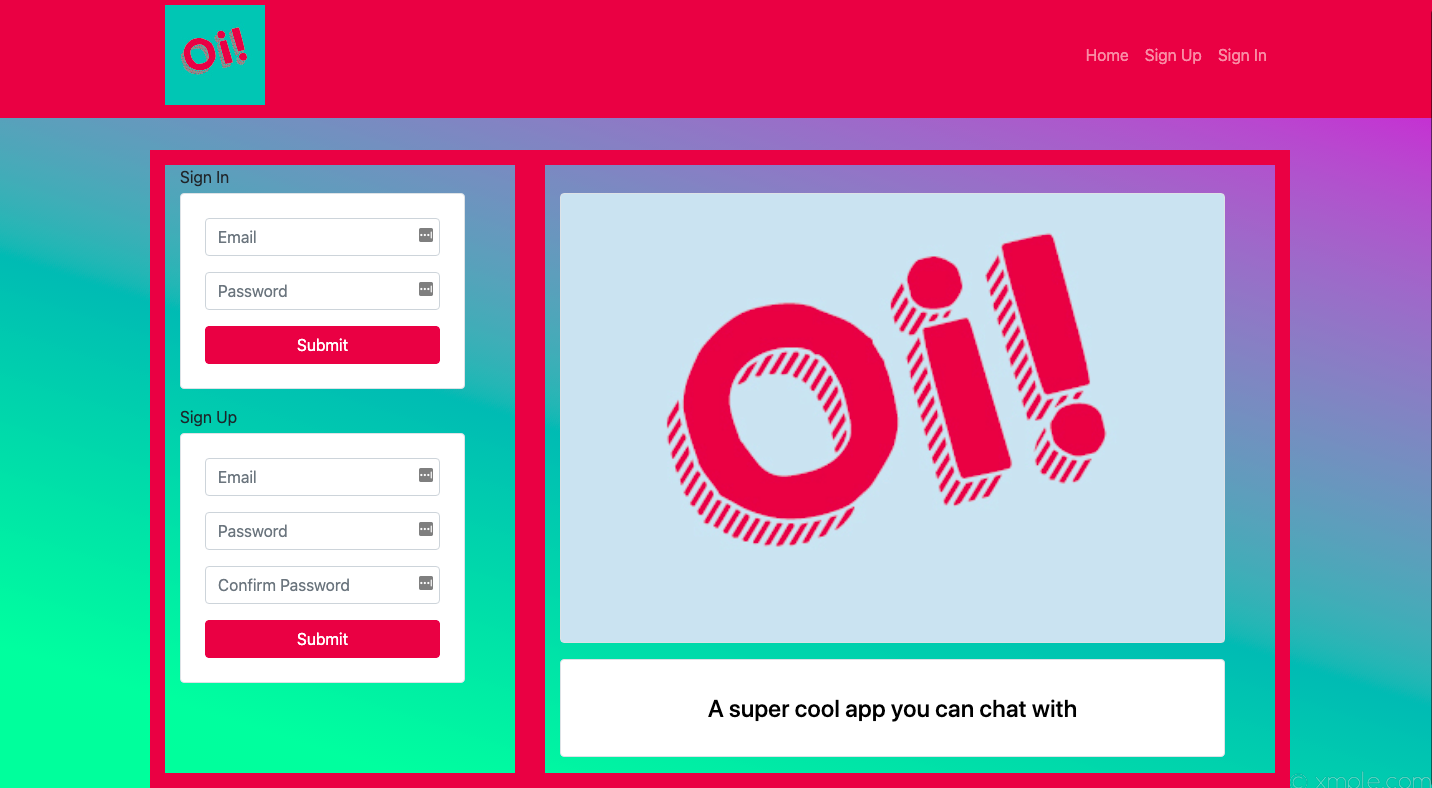
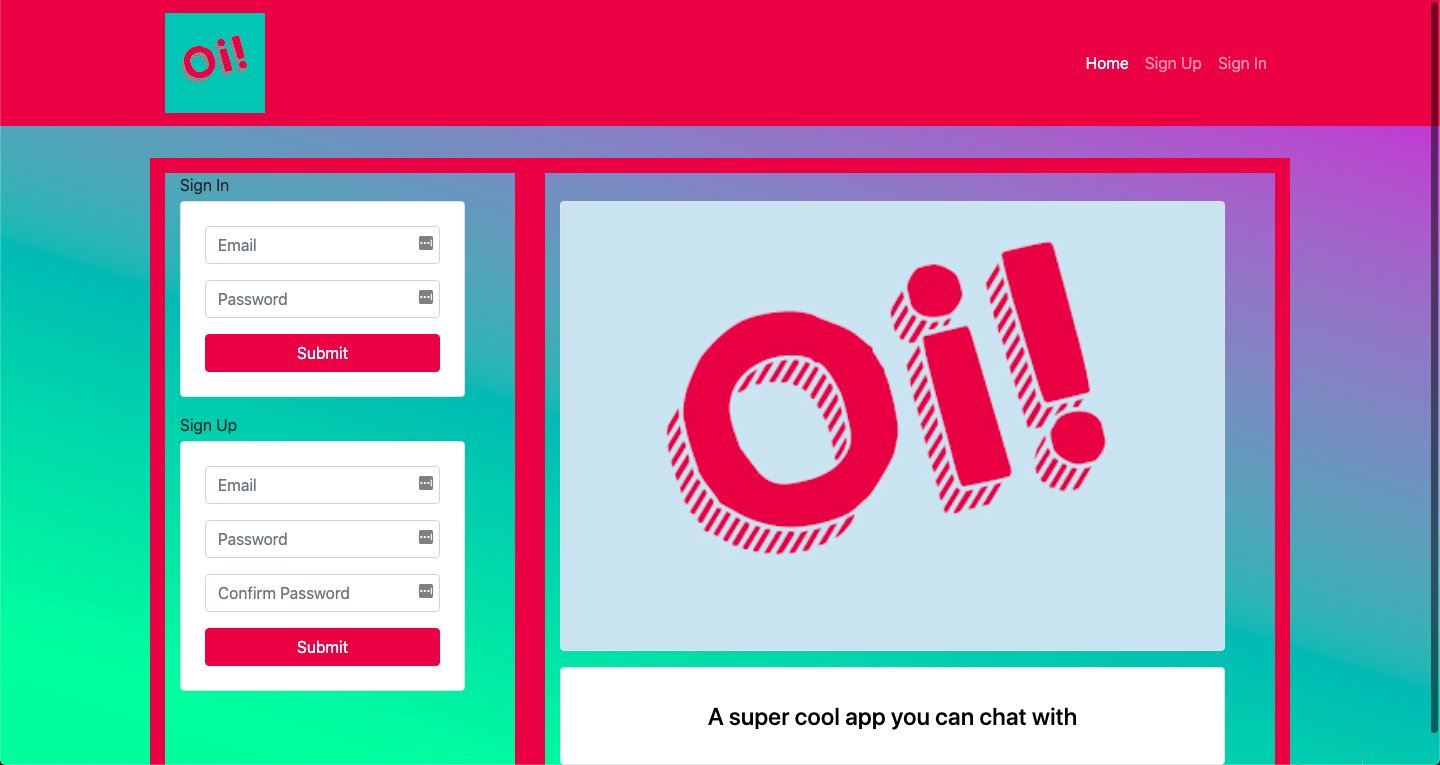
Adjust images

Changed region(s): [[0.0, 0.0, 1.0, 1.0], [0.4609, 0.3007, 0.7682, 0.7216], [0.7374, 0.0601, 0.8911, 0.0902]]

diff --git a/index.html b/index.html
@@ -168,13 +168,13 @@
                                 </ol>
                                 <div class="carousel-inner">
                                   <div class="carousel-item active">
-                                    <img src="assets/img/Oi-App.png" class="d-block w-100" alt="...">
+                                    <img src="assets/img/Oi-App.png" class="rounded d-block w-100" alt="...">
                                   </div>
                                   <div class="carousel-item">
-                                    <img src="assets/img/Chat.png" class="d-block w-100" alt="...">
+                                    <img src="assets/img/Chat.png" class="rounded d-block w-100" alt="...">
                                   </div>
                                   <div class="carousel-item">
-                                    <img src="assets/img/Profile.png" class="d-block w-100" alt="...">
+                                    <img src="assets/img/Profile.png" class="rounded d-block w-100" alt="...">
                                   </div>
                                 </div>
                                 <a class="carousel-control-prev" href="#carouselExampleIndicators" role="button" data-slide="prev">

diff --git a/css/styles.css b/css/styles.css
@@ -845,7 +845,12 @@ pre code {
     flex: 0 0 16.6666666667%;
     max-width: 16.6666666667%;
   }
-
+  /* .carousel {
+    border-radius: 0.25rem;
+    overflow: hidden;
+    height: 400px;
+    max-height: 400px;
+  } */
   .col-sm-auto {
     flex: 0 0 auto;
     width: auto;
